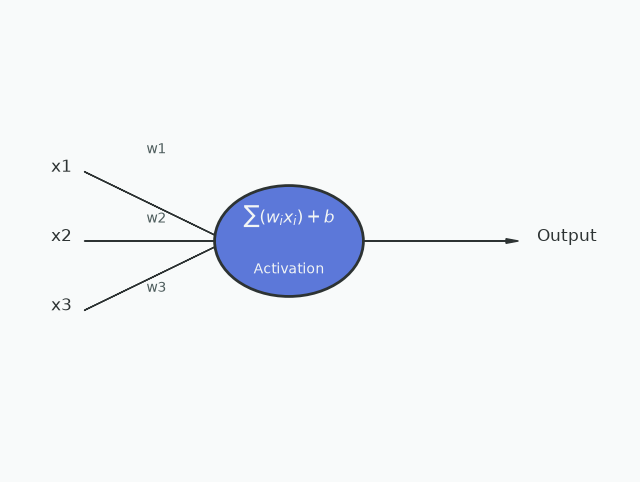
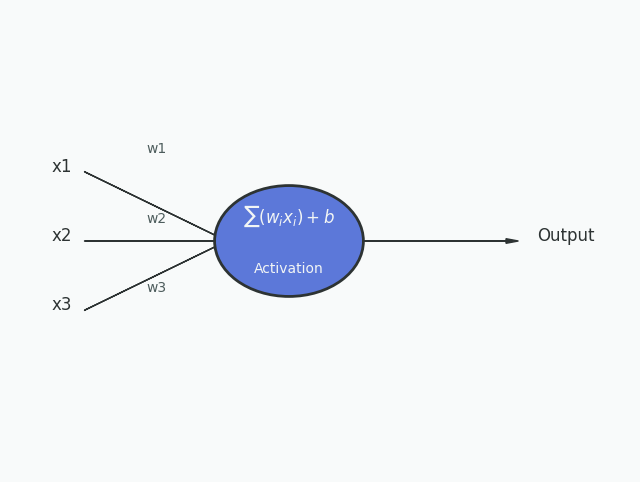
using own plot config

diff --git a/CCPlots/implementation/PerceptronExample.py b/CCPlots/implementation/PerceptronExample.py
@@ -1,34 +1,32 @@
+"""
+Schematic diagram of a single perceptron showing inputs, weights, bias, and
+binary output.
+
+Figures
+-------
+- ``perceptron_schematic.png`` / ``_NL.png`` — annotated perceptron schematic
+
+Configuration
+-------------
+``CCPlots/plot_configs/perceptron.json``
+"""
 from CCPlots.PlotExample import PlotExample
-from CCPlots.config import BITROOT_PALETTE, output_path
+from CCPlots.config import BITROOT_PALETTE
 
 
-TEXT_BY_LOCALE = {
-    "en": {
-        "activation": "Activation",
-        "output": "Output",
-    },
-    "nl": {
-        "activation": "Activatie",
-        "output": "Uitvoer",
-    },
-}
+class Perceptron(PlotExample):
 
-
-class PerceptronExample(PlotExample):
+    CONFIG_KEY = "perceptron"
 
     def main(self) -> None:
-        import matplotlib.pyplot as plt
         import matplotlib.patches as patches
 
         inputs = ['x1', 'x2', 'x3']
         weights = ['w1', 'w2', 'w3']
         input_positions = [6.5, 5.0, 3.5]
 
-        for locale, labels in (("en", TEXT_BY_LOCALE["en"]), ("nl", TEXT_BY_LOCALE["nl"])):
-            fname = f"perceptron_schematic{'_NL' if locale == 'nl' else ''}.png"
-
-            fig, ax = plt.subplots(figsize=(8, 6), facecolor=BITROOT_PALETTE['background'])
-            ax.set_facecolor(BITROOT_PALETTE['background'])
+        for _locale, labels, suffix in self.iter_locales():
+            fig, ax = self.create_figure()
             ax.set_xlim(0, 10)
             ax.set_ylim(0, 10)
             ax.axis('off')
@@ -54,8 +52,8 @@ class PerceptronExample(PlotExample):
                      length_includes_head=True)
             ax.text(8.5, 5, labels['output'], fontsize=12, ha='left', color=BITROOT_PALETTE['text'])
 
-            fig.savefig(output_path(fname), bbox_inches='tight', pad_inches=0.1)
-            plt.close(fig)
+            self.save_figure(fig, "default", suffix=suffix)
+
 
 if __name__ == "__main__":
-    PerceptronExample().main()
+    Perceptron().main()
